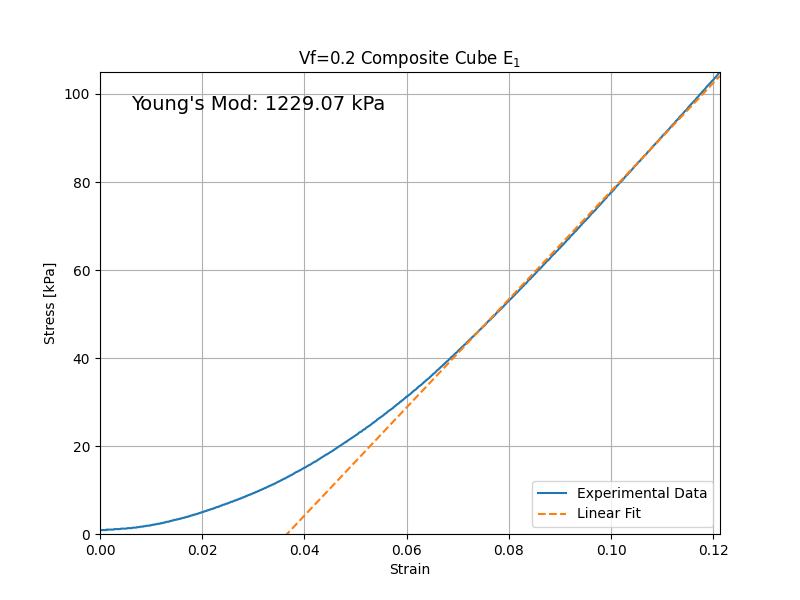
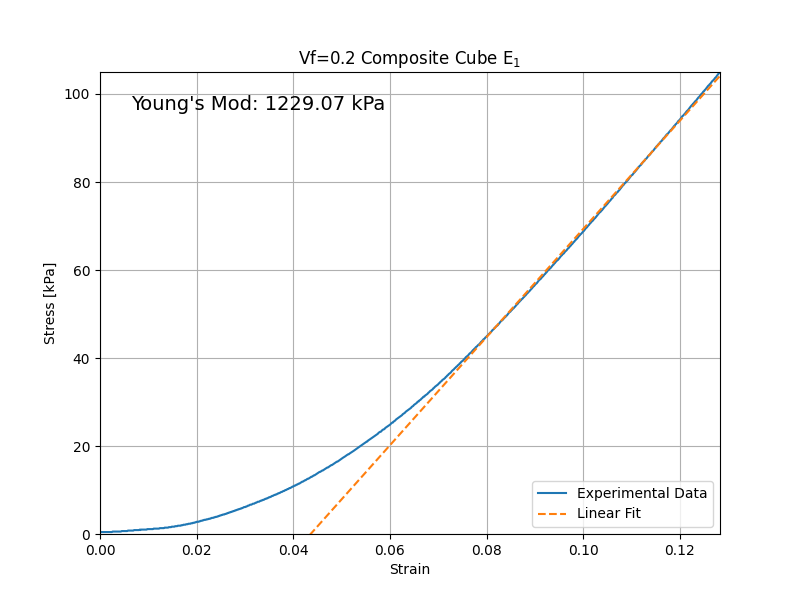
figures

diff --git a/main.py b/main.py
@@ -12,11 +12,12 @@ plt.rcParams.update(params)
 class Composite():
 
     def __init__(self):
-        self.PR = 0.1   # no dimension
+        self.PR12 = 0.05   # Poisson's Ratio, no dimension
+        self.PR21 = 0.05
         self.Ef = 10    # MPa
-        self.Em = 1    # MPa
-        self.Gf = 10   # MPa
-        self.Gm = 10   # MPa
+        self.Em = 1     # MPa
+        self.Gf = 10    # MPa
+        self.Gm = 10    # MPa
         self.Vf = 0.5   # Volume fraction of fibers
         self.Vm = 0.5   # Volume fraction of fibers
         self.theta = [0, -0.785, 0.785]  # Angle of fibers in each layer in radians
@@ -24,6 +25,7 @@ class Composite():
         self.E1 = 1
         self.E2 = 1
         self.G12 = 1
+        self.E45 = 1
         self.Ex = [1,1,1]
         self.Ey = [1,1,1]
         self.G12 = [1,1,1]
@@ -44,11 +46,17 @@ class Composite():
         """
         self.E2 = (self.Em * self.Ef)/(self.Vf * self.Em + self.Vm * self.Ef)
 
-    def get_modulus_at_45deg(self):
+    def set_modulus_at_45deg(self):
         """
         Returns modulus at 45 deg angle, given longitudinal and transverse moduli
         """
+        self.E45 = (1/4)*self.E1 + (1/4)*self.E2 + 1/self.G12 + (1/4)*((2*self.PR12)-(4/self.G12))
 
+    def set_PR21(self):
+        """
+        Set transverse to longitudinal poisson's ratio
+        """
+        self.PR21 = (self.PR12/self.E1)*self.E2
 
     def set_composite_shear_modulus(self):
         """
@@ -56,7 +64,6 @@ class Composite():
         :return:
         """
         self.G12 = (self.Gm * self.Gf)/(self.Vf * self.Gm + self.Vf * self.Gf)
-
 
     def set_composite_modulus_by_layer(self):
         """
@@ -69,19 +76,21 @@ class Composite():
                                     (self.E1 * np.sin(self.theta[i])**4 + 2*self.G12 * np.sin(self.theta[i])**2 * np.cos(self.theta[i])**2 + self.E2 * np.cos(self.theta[i])**4) )
         self.Ex = comp_mod_by_layer
 
+# Outside of composite class now
 
+# get data from models and tests
 def get_data_from_model(composite):
     """
     Given a composite model, get stress strain response plot from 0 to 50% strain
     """
     sigma_longitudinal = []
     sigma_transverse = []
-    epsilon = list(np.linspace(0, 0.2, num=50))
+    epsilon = list(np.linspace(0.01, 0.1, num=50))
     E_long = (composite.E1/2) + (composite.E45/2)
     E_trans = (composite.E2/2) + (composite.E45/2)
     for i in epsilon:
-        sigma_longitudinal = epsilon*E_long
-        sigma_transverse = epsilon*E_trans
+        sigma_longitudinal.append(i*E_long*1000)
+        sigma_transverse.append(i*E_trans*1000)
     return epsilon, sigma_longitudinal, sigma_transverse
 
 
@@ -113,8 +122,7 @@ def get_stress_strain_from_data(displacement, force, area, start_length):
     return epsilon, sigma
 
 
-
-
+# Plotting below this line
 
 def plot_experimental_data(col1, col2, plot_title, file_name):
     """
@@ -163,48 +171,107 @@ def plot_all_experimental_data(col1_1, col2_1, col1_2, col2_2, col1_3, col2_3, p
     return 0
 
 
-def plot_model_data(col2, col3):
+def plot_model_data(col1, col2, plot_title, file_name):
     """
     Plot model data
     """
     plt.figure(figsize=(8, 6))
     # print(type(col2))
-    plt.plot(col2, col3)
+    plt.plot(col1, col2)
     plt.legend()
     plt.grid()
-    plt.xlabel('Deformation [mm]')
-    plt.ylabel('Force [kN]')
+    plt.title(plot_title)
+    plt.xlabel('Strain')
+    plt.ylabel('Stress [kPa]')
+    plt.savefig(file_name)
     # plt.show()
     return 0
 
 
-def plot_model_against_test():
+def plot_all_model_data(col1_1, col2_1, col1_2, col2_2, col1_3, col2_3, plot_title, file_name):
     """
-    Plot data from model and test
+    Plot model data from all three cases
     """
+    # Generate plot
+    fig, ax = plt.subplots(figsize=(8, 6))
+    plt.plot(col1_1, col2_1, label="Solid TPU")
+    plt.plot(col1_2, col2_2, label="Mech. of Material Vf=0.2")
+    plt.plot(col1_3, col2_3, label="Mech. of Material Vf=0.5")
+    plt.xlim([0, 0.2])
+    plt.ylim([0, 500])
+    plt.legend()
+    plt.grid()
+    plt.xlabel('Strain')
+    plt.ylabel('Stress [kPa]')
+    plt.title(plot_title)
+    plt.savefig(file_name)
+    # plt.show()
     return 0
 
 
+
+def plot_model_against_test(strain_model, stress_model, strain_test, stress_test, plot_title, file_name):
+    """
+    Plot data from model and test
+    """
+    # run linear fit on both model and test end of data
+    linear_coeffs_model = np.polyfit(strain_model[-100:], stress_model[-100:], 1)
+    y_line_model = [i * linear_coeffs_model[0] + linear_coeffs_model[1] for i in strain_model]
+    linear_coeffs_test = np.polyfit(strain_test[-100:], stress_test[-100:], 1)
+    y_line_test = [i * linear_coeffs_test[0] + linear_coeffs_test[1] for i in strain_test]
+    # Generate plot
+    fig, ax = plt.subplots(figsize=(8, 6))
+    
+    plt.plot(strain_model, stress_model, label="Mech. of Materials Model")
+    plt.plot(strain_test, stress_test, label="Experimental Results")
+    # place a text box in upper left in axes coords
+    model_E = round(linear_coeffs_model[0], 2)
+    test_E = round(linear_coeffs_test[0], 2)
+    ax.text(0.05, 0.95, "Model Young's Mod: " + str(model_E) + " kPa", transform=ax.transAxes, fontsize=14,
+        verticalalignment='top')
+    ax.text(0.05, 0.90, "Test Young's Mod: " + str(test_E) + " kPa", transform=ax.transAxes, fontsize=14,
+        verticalalignment='top')
+    ax.text(0.05, 0.85, "Error: " + str(round(100*(test_E - model_E)/test_E, 2)) + " %", transform=ax.transAxes, fontsize=14,
+        verticalalignment='top')
+    plt.xlim([0, 0.15])
+    plt.ylim([0, 600])
+    plt.legend()
+    plt.grid()
+    plt.xlabel('Strain')
+    plt.ylabel('Stress [kPa]')
+    plt.title(plot_title)
+    plt.savefig(file_name)
+    # plt.show()
+    return 0
+
+# useful functions
 def split_list(a_list):
     half = len(a_list)//2
     return a_list[:half], a_list[half:]
 
-
+# main code
 if __name__ == '__main__':
     # Input material properties
     # Solid VTP Cube
     VTP0 = Composite()
     VTP0.Em = 0.2 # MPa
-    VTP0.Ef = 10  # MPa
+    VTP0.Ef = 12  # MPa
     VTP0.Gm = 0.8 # MPa
     VTP0.Gf = 1.5 # MPa
     VTP0.Vf = 1
     VTP0.Vm = 0
+    VTP0.set_composite_longitudinal_modulus()
+    VTP0.set_composite_transverse_modulus()
+    VTP0.set_composite_shear_modulus()
+    VTP0.set_composite_modulus_by_layer()
+    VTP0.set_PR21()
+    VTP0.set_modulus_at_45deg()
+    strain_VTP0, stress_long_VTP0, stress_trans_VTP0  = get_data_from_model(VTP0)
 
     # First VTP cube
     VTP1 = Composite()
     VTP1.Em = 0.2 # MPa
-    VTP1.Ef = 10  # MPa
+    VTP1.Ef = 11  # MPa
     VTP1.Gm = 0.8 # MPa
     VTP1.Gf = 1.5 # MPa
     VTP1.Vf = 0.3 
@@ -213,13 +280,15 @@ if __name__ == '__main__':
     VTP1.set_composite_transverse_modulus()
     VTP1.set_composite_shear_modulus()
     VTP1.set_composite_modulus_by_layer()
+    VTP1.set_PR21()
+    VTP1.set_modulus_at_45deg()
     print(VTP1.Ex)
     strain_VTP1, stress_long_VTP1, stress_trans_VTP1  = get_data_from_model(VTP1)
 
     # Second VTP cube
     VTP2 = Composite()
     VTP2.Em = 0.2 # MPa
-    VTP2.Ef = 10  # MPa
+    VTP2.Ef = 11  # MPa
     VTP2.Gm = 0.8 # MPa
     VTP2.Gf = 1.5 # MPa
     VTP2.Vf = 0.8 # nd
@@ -228,6 +297,9 @@ if __name__ == '__main__':
     VTP2.set_composite_transverse_modulus()
     VTP2.set_composite_shear_modulus()
     VTP2.set_composite_modulus_by_layer()
+    VTP2.set_PR21()
+    VTP2.set_modulus_at_45deg()
+    strain_VTP2, stress_long_VTP2, stress_trans_VTP2  = get_data_from_model(VTP2)
 
     # Get data from all three tests
     area0 = 0.0009 # square meters
@@ -251,10 +323,10 @@ if __name__ == '__main__':
     strain4, stress4 = get_stress_strain_from_data(displacement=list(disp4), force=list(force4), area=area2, start_length=L0_2)
     # post process stress strain zero points
     strain0 = [i-0.015 for i in strain0]
-    strain1 = [i-0.011 for i in strain1]
-    strain2 = [i-0.023 for i in strain2]
-    strain3 = [i-0.013 for i in strain3]
-    strain4 = [i-0.008 for i in strain4]
+    strain1 = [i-0.005 for i in strain1]
+    strain2 = [i-0.022 for i in strain2]
+    strain3 = [i-0.006 for i in strain3]
+    strain4 = [i-0.004 for i in strain4]
 
     # Plot each test case on it's own
     plot_experimental_data(col1=strain0, col2=stress0, plot_title="Solid TPU Cube", file_name="./TRL_solid_VTP_cube_E1_stress_strain.png")
@@ -272,10 +344,19 @@ if __name__ == '__main__':
     plot_all_experimental_data(col1_1=strain0, col2_1=stress0, col1_2=strain1, col2_2=stress1, col1_3=strain2, col2_3=stress2, plot_title="All Experimental $E_2$ Data", file_name="./TRL_all_cube_E2_stress_strain.png")
     plot_all_experimental_data(col1_1=strain0, col2_1=stress0, col1_2=strain3, col2_2=stress3, col1_3=strain4, col2_3=stress4, plot_title="All Experimental $E_1$ Data", file_name="./TRL_all_cube_E1_stress_strain.png")
 
-    # Get model data for all three tests
-
     # Plot each model on it's own
+    plot_model_data(col1=strain_VTP1, col2=stress_long_VTP1, plot_title="Mech. of Material E1 Vf=0.2", file_name="./TRL_mom_E1_Vf0p2.png")
+    plot_model_data(col1=strain_VTP1, col2=stress_trans_VTP1, plot_title="Mech. of Material E2 Vf=0.2", file_name="./TRL_mom_E2_Vf0p2.png")
+    plot_model_data(col1=strain_VTP2, col2=stress_long_VTP2, plot_title="Mech. of Material E1 Vf=0.5", file_name="./TRL_mom_E1_Vf0p5.png")
+    plot_model_data(col1=strain_VTP2, col2=stress_trans_VTP2, plot_title="Mech. of Material E2 Vf=0.5", file_name="./TRL_mom_E2_Vf0p5.png")
 
+    # Get model data for all three tests    
+    
     # Plot all models together
 
     # Plot data from experiments against model
+    plot_model_against_test(strain_model=strain_VTP0, stress_model=stress_long_VTP0, strain_test=strain0, stress_test=stress0, plot_title="Model and Test for Solid TPU", file_name="./TRL_mom_vs_test_solid.png")
+    plot_model_against_test(strain_model=strain_VTP1, stress_model=stress_long_VTP1, strain_test=strain3, stress_test=stress3, plot_title="Model and Test for Vf=0.2, E1", file_name="./TRL_mom_vs_test_Vf0p2_E1.png")
+    plot_model_against_test(strain_model=strain_VTP1, stress_model=stress_trans_VTP1, strain_test=strain1, stress_test=stress1, plot_title="Model and Test for Vf=0.2, E2", file_name="./TRL_mom_vs_test_Vf0p2_E2.png")
+    plot_model_against_test(strain_model=strain_VTP2, stress_model=stress_long_VTP2, strain_test=strain4, stress_test=stress4, plot_title="Model and Test for Vf=0.5, E1", file_name="./TRL_mom_vs_test_Vf0p5_E1.png")
+    plot_model_against_test(strain_model=strain_VTP2, stress_model=stress_trans_VTP2, strain_test=strain2, stress_test=stress2, plot_title="Model and Test for Vf=0.5, E2", file_name="./TRL_mom_vs_test_Vf0p5_E2.png")
